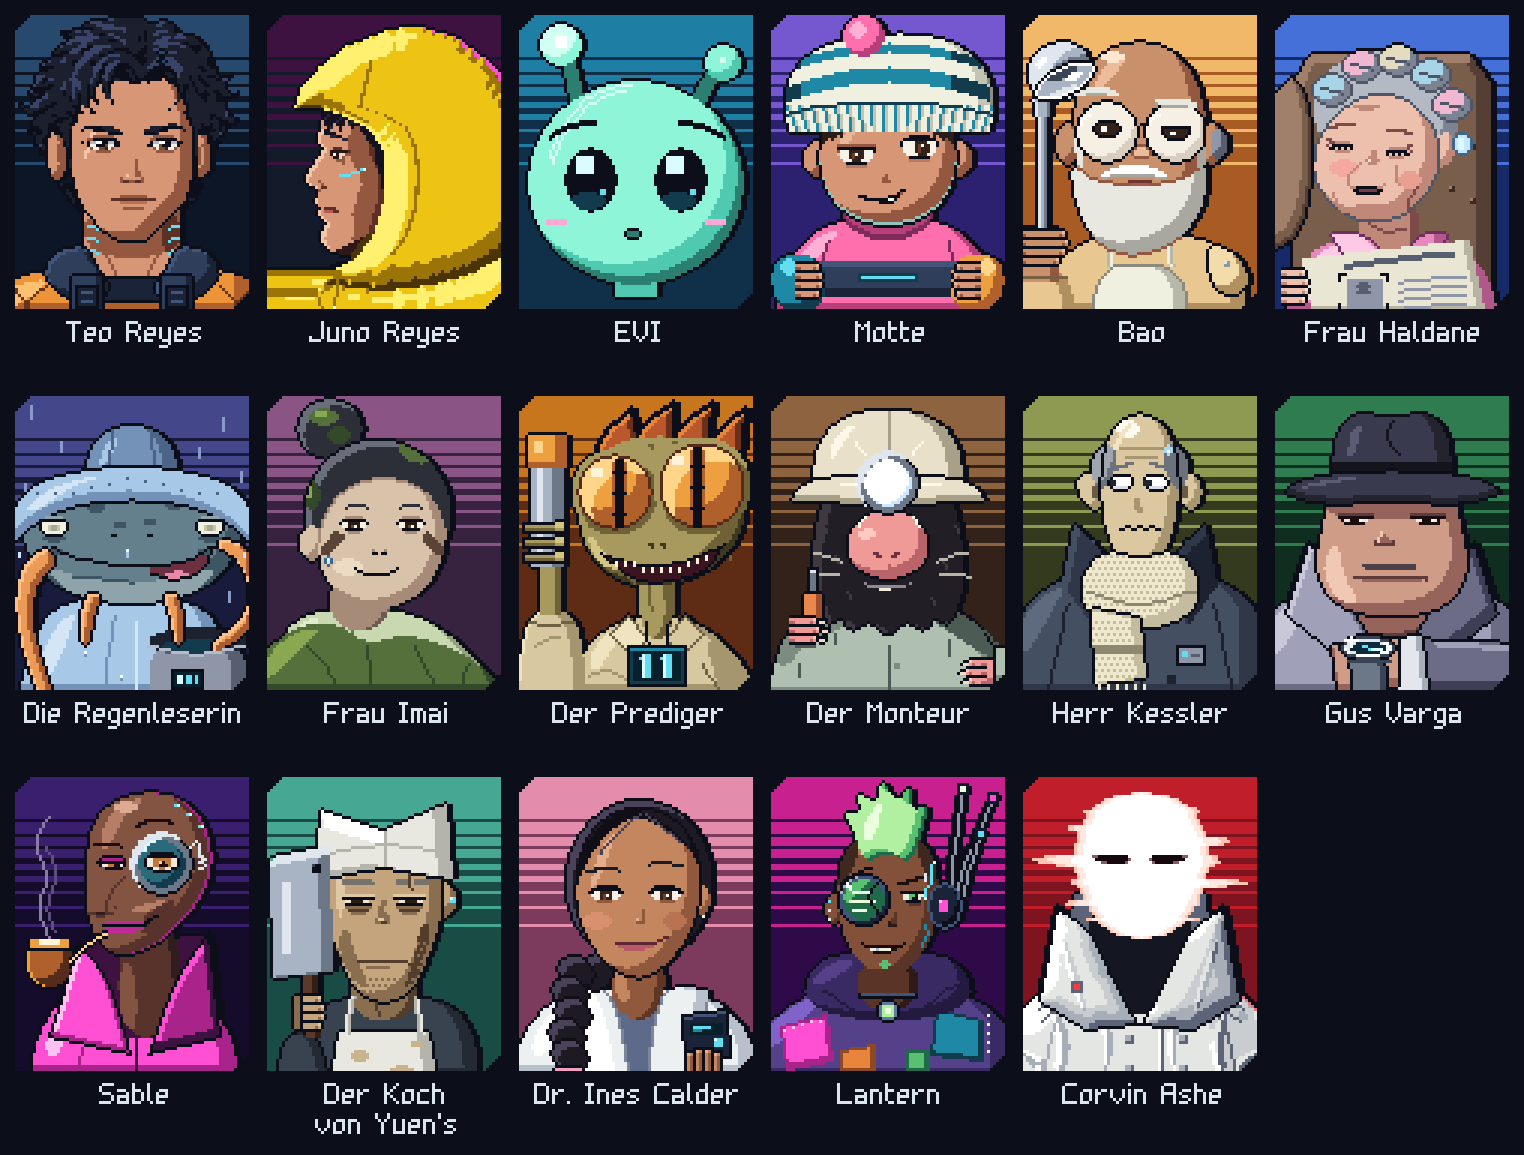
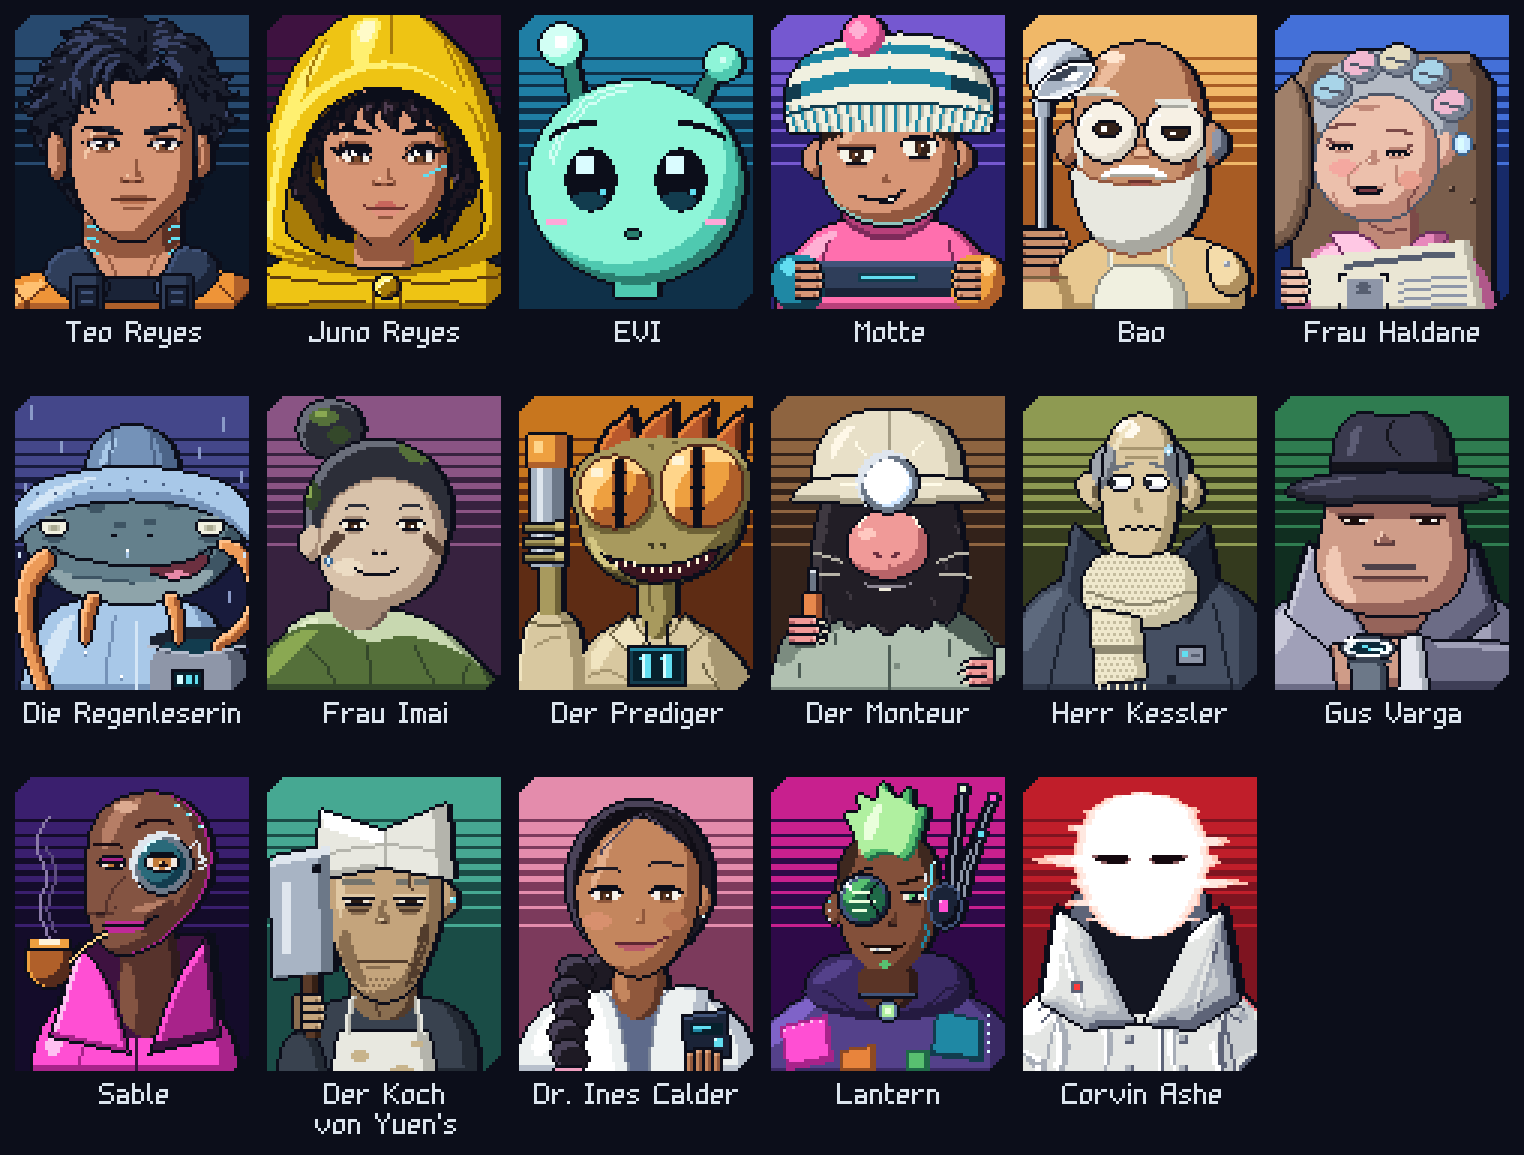
Juno's portrait is now the frontal one too, as the user decided, and takes her place in the index and in her two files beside Teo: the hood fills the picture from top to bottom, hair, brows and eyes come from the user's model, the mouth is small and full, one thin cyan line on her left cheek. Her pr

Changed region(s): [[0.1542, 0.0, 0.3392, 0.2805]]

diff --git a/art/portraits/portraits.px.js b/art/portraits/portraits.px.js
@@ -331,7 +331,7 @@ function portrait(name, panel, draw, picture) {
 // The title picture's Juno, in profile: we don't need to see her from the front, it keeps her closed. Set to the right of the panel, since she
 // looks left. The cheek's cyan line is that picture's own (style guide §6). Cut out by tools/portrait-title.py.
 sprite("_juno_title", { png: "juno_title.png" })
-portrait("juno", PANELS.juno, () => {}, "_juno_title")
+portrait("juno_profil", PANELS.juno, () => {}, "_juno_title")
 
 // ---------------------------------------------------------------- The Preacher
 // Square on, his head a little too big for the neck, the flask up beside it.
@@ -670,10 +670,10 @@ portrait("teo", PANELS.teo, (p) => {
   ], { k: S.deep, d: S.dim, m: "#b87050" })
 })
 
-// ---------------------------------------------------------------- Juno, from the front (a trial; the index still shows the profile)
+// ---------------------------------------------------------------- Juno, from the front: her portrait in the index, the user's decision
 // Taken from the user's model: the contour of the face at its exact points, hair, brows and eyes sampled from it pixel for pixel into our tones. The hood fills the
 // picture from top to bottom and runs off both sides.
-portrait("juno_front", PANELS.juno, (p) => {
+portrait("juno", PANELS.juno, (p) => {
   const S = SKIN, H = { base: "#1c1620", lit: "#4e3c50" }, Y = YELLOW
   // the coat's shoulders under the hood
   const coat = p.part("-4,104! -4,80 84,80 84,104!", Y.base)

diff --git a/docs/NEXT-SESSION.md b/docs/NEXT-SESSION.md
@@ -44,7 +44,7 @@ Where we are (everything is committed; the engine copy is at Cutaway.js 692a93b;
    - **What may still be weak:** Ashe reads pale grey-green rather than white; in the shadow, dim, he is a floating ball until he steps out, it could read as a lamp; Lantern at his spot has his head and antennas against the bright edge strip (6 px down-right would help, the spot was mine to decide); Ines's head nearly goes on dark ground; the background has no drops yet (`docs/kapitel1-design.md` §8 names them), the picture is still but for the post-effects; the tile and tide marks mostly vanish in the game except on the pillar, the top right is nearly black.
    - Added beyond the blocks: two tide lines, enamel panels with gaps, rust and leak runs, the rails under the water, a vault above the camera that is only seen in the water (its glow is the water's sheen). A float on a line was tried and dropped: it did not read at 1x.
 2. **The figures of the city are painted** (art/characters/stadt_people.px.js, docs/characters/stadt_people_x4.png), with animal mods that I chose instead of the plain blocks (story §10c, style guide §6; the sketch of every variant: docs/characters/stadt_mods_blocks_x4.png): the Rain Reader a catfish's barbels, Frau Imai a sloth's long three-clawed fingers, an eye stripe and moss in her hair, Lull behind her ear as on everyone, the preacher a gecko's lidless eyes and tongue, the fitter a mole's paws and pelt. Imai's point keeps `Halcyon.lullBeat`'s durations, but the sprite runs on the actor's own time, so it is the right pattern, not in phase with the clock. I have only seen stills.
-   **The character index:** 17 portraits, 80x100, in docs/portraits/ (figuren_index_x3.png, each with and without its name, README.md). Their shading stays flat: I rejected the finer shading on everyone but Ashe (`part.form`, `part.fold`, used by him alone); Juno is cut from the title picture by tools/portrait-title.py, so rerun it after a change to art/ui/splash.px.js; Teo is drawn from the front after my model (I decided, 2026-11-06), his profile stays in the source as portrait_teo_profil, and a frontal Juno waits there as portrait_juno_front. New figures go in art/portraits/portraits.px.js. Ashe, Ines and Lantern are spoilers for marketing. Sable is nonbinary (story §4, §10): no pronouns.
+   **The character index:** 17 portraits, 80x100, in docs/portraits/ (figuren_index_x3.png, each with and without its name, README.md). Their shading stays flat: I rejected the finer shading on everyone but Ashe (`part.form`, `part.fold`, used by him alone); Juno and Teo are drawn from the front after my model (I decided, 2026-11-06); their profiles stay in the source as portrait_juno_profil and portrait_teo_profil, cut from the title picture by tools/portrait-title.py, so rerun it after a change to art/ui/splash.px.js. New figures go in art/portraits/portraits.px.js. Ashe, Ines and Lantern are spoilers for marketing. Sable is nonbinary (story §4, §10): no pronouns.
    **Next, proposed but not yet confirmed by me: cam21 as blocks, ahead of the agreed order below (I find cam14, cam15, cam21 poor: they and cam12, cam18, cam22, cam23, cam24, cam30, the alley, the laundromat, LUCKY STATIC, the Drain Market, Sable's booth and the ledge are still blocks; only cam03, cam04 and cam31 are painted):**
    - **The scaffold stands** (art/kit/kowalski.kit.px.js, art/rooms/kowalski.map.js; docs/rooms/kowalski_geruest_x3.png, kowalski_geruest_juno_x3.png, menue_geruest_x3.png), always, also in the prologue and on the menu: one bay before the screen's left half, boards, the ladder at the left, the sleeping bag on the lower deck, the stove with its pot and a thread of steam, the washing across the broken half, a plate 9-A on the deck's edge. The fitter stands on the upper deck (the spot `reparatur`, h 1.1; the map's `standOn` puts him in front of it), Juno talks up to him from the spot `scaffold` (his `walkTo`). Added beyond the blocks: the plate, and a look on the scaffold ("Gerüst, Kocher, Schlafsack. Wer da wohnt, kriegt keine Mahnung."), mine to judge. Stills only. In the JUNO. moment the washing hangs over the bottom of the O (docs/rooms/kowalski_geruest_juno_x3.png): mine to judge.
    - **The roof has her gutter** in `dach_bg` and `dach_heute` (art/ui/deck_wallpaper.px.js; docs/rooms/dach_rinne_x3.png), the old photo unchanged. Her painted sprite faces left, her bucket at x 78, so the gutter is the block's mirrored: the pole left of her, falling right to a spout over the bucket, a drip twice a loop; on `dach_sitzen`, where no one sits at the bucket, the drip falls on the tar.

diff --git a/docs/portraits/README.md b/docs/portraits/README.md
@@ -1,6 +1,6 @@
 # Figuren-Index
 
-Porträts für Marketing und zum Auseinanderhalten der Figuren, nicht fürs Spiel. Die Schattierung ist flach, nur Ashe hat eine feinere (Mantel): So hat es der Nutzer entschieden, auf den anderen gefiel sie ihm nicht. Quelle: `art/portraits/portraits.px.js`; Juno ist aus dem Titelbild geschnitten (`tools/portrait-title.py`). Teo ist frontal gezeichnet, nach einer Vorlage des Nutzers: Haare, Brauen und Augen sind Pixel für Pixel aus ihr übernommen; sein Profil aus dem Titelbild bleibt in der Quelle als `portrait_teo_profil`. Von vorn sieht man sein Lull-Pflaster nicht, es sitzt hinter dem Ohr. Juno gibt es dort auch schon frontal (`portrait_juno_front`), noch nicht im Index.
+Porträts für Marketing und zum Auseinanderhalten der Figuren, nicht fürs Spiel. Die Schattierung ist flach, nur Ashe hat eine feinere (Mantel): So hat es der Nutzer entschieden, auf den anderen gefiel sie ihm nicht. Quelle: `art/portraits/portraits.px.js`; Juno und Teo sind frontal gezeichnet, nach einer Vorlage des Nutzers: Haare, Brauen und Augen sind aus ihr übernommen (Junos Augen unten aufgeräumt, damit die Iris klar bleibt), Nase und Mund nicht. Ihre Profile aus dem Titelbild (`tools/portrait-title.py`) bleiben in der Quelle als `portrait_juno_profil` und `portrait_teo_profil`. Juno trägt einen schmalen Wangenstreifen wie auf dem Titelbild. Von vorn sieht man Teos Lull-Pflaster nicht, es sitzt hinter dem Ohr.
 
 Die ganze Reihe: `figuren_index_x3.png`. Jede Figur gibt es als `<id>_x4.png` mit Namen und als `<id>_ohne_name_x4.png` ohne.
 

diff --git a/docs/style-guide.md b/docs/style-guide.md
@@ -195,7 +195,8 @@ A location takes one key hue from this set and plays it against the night blues.
     heavy boots, a grey satchel on a strap (her deck lives in it);
   - **face and hair:** short black hair. The implant sits behind her ear, where Teo wears his Lull point (decided
     2026-11-04, story §10a): with the hood down, a cyan point there; under the hood nothing shows. The thin cyan line
-    along her left cheekbone is the title's alone, a sign on that picture; nowhere else (decided 2026-11-04).
+    along her left cheekbone is the title's alone, a sign on that picture; nowhere else in the game (decided
+    2026-11-04). Her portrait in the character index, which isn't in the game, wears it too (decided 2026-11-06).
     **Lull is a patch behind the ear, and the two must not be confused** (story §10b; changed 2026-11-06): it always looks like Teo's in the title picture, an oval pale disc with a darker rim and a brighter stripe (`art/ui/splash.px.js`, `docs/portraits/teo_x4.png`). Lull is pale
     blue, the larger of the two, and pulses in a fixed beat, long, short, short, long, then a pause (`Halcyon.lullBeat`; the puzzle of cam31 depends on it, decided 2026-11-05: every Lull point in the art has to follow it, those already painted still to be changed); the implant is a smaller cyan point that lights only when she tags. Nothing else
     behind an ear glows (Bao's hearing aid is plain grey). The title's Teo already shows it.
